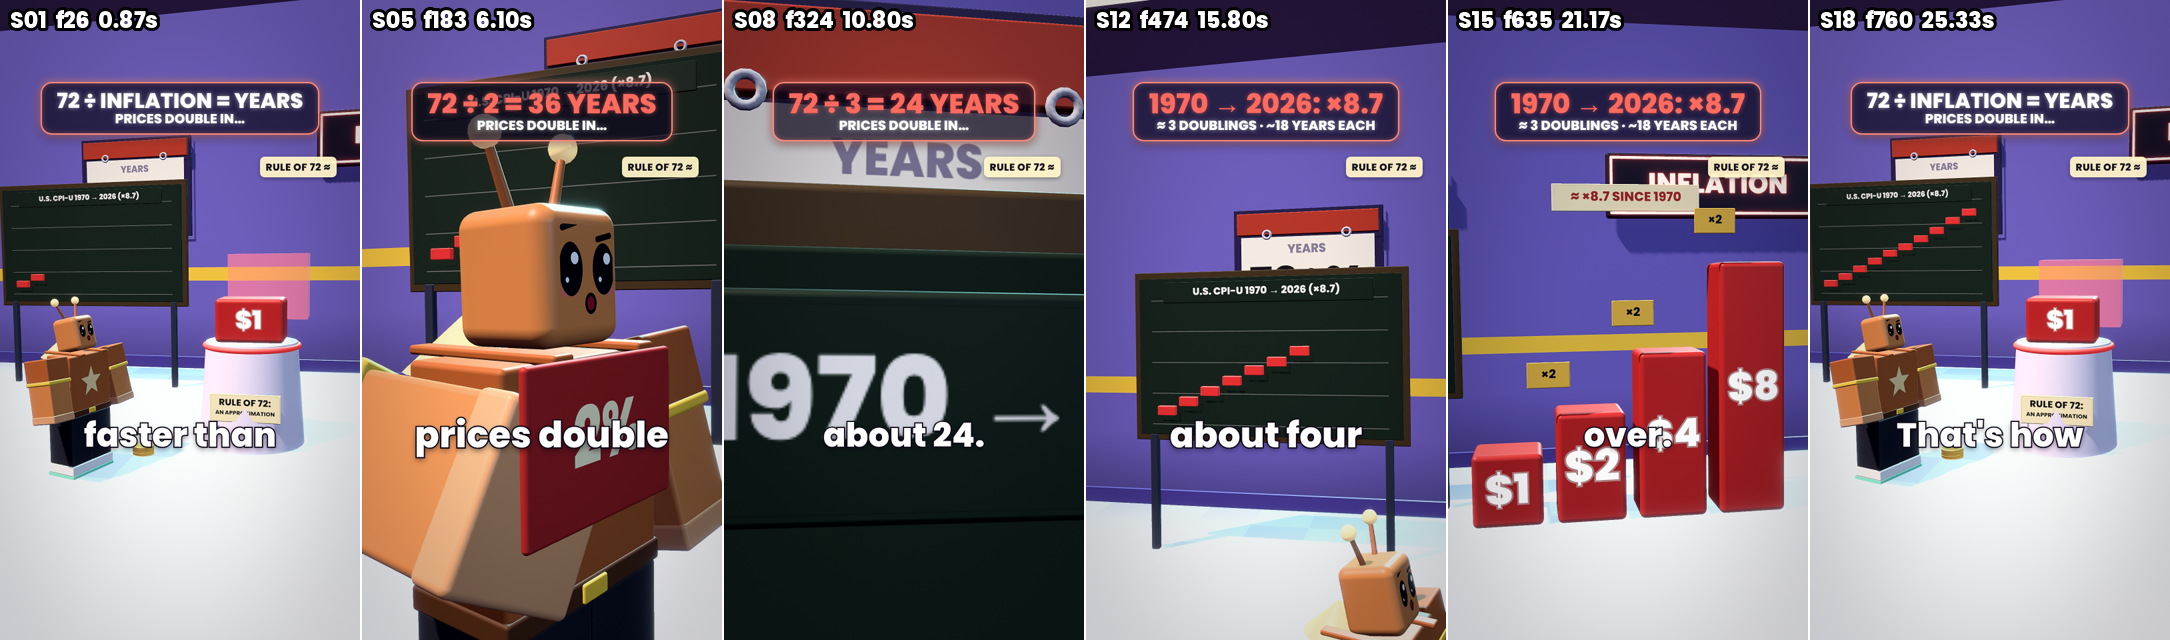
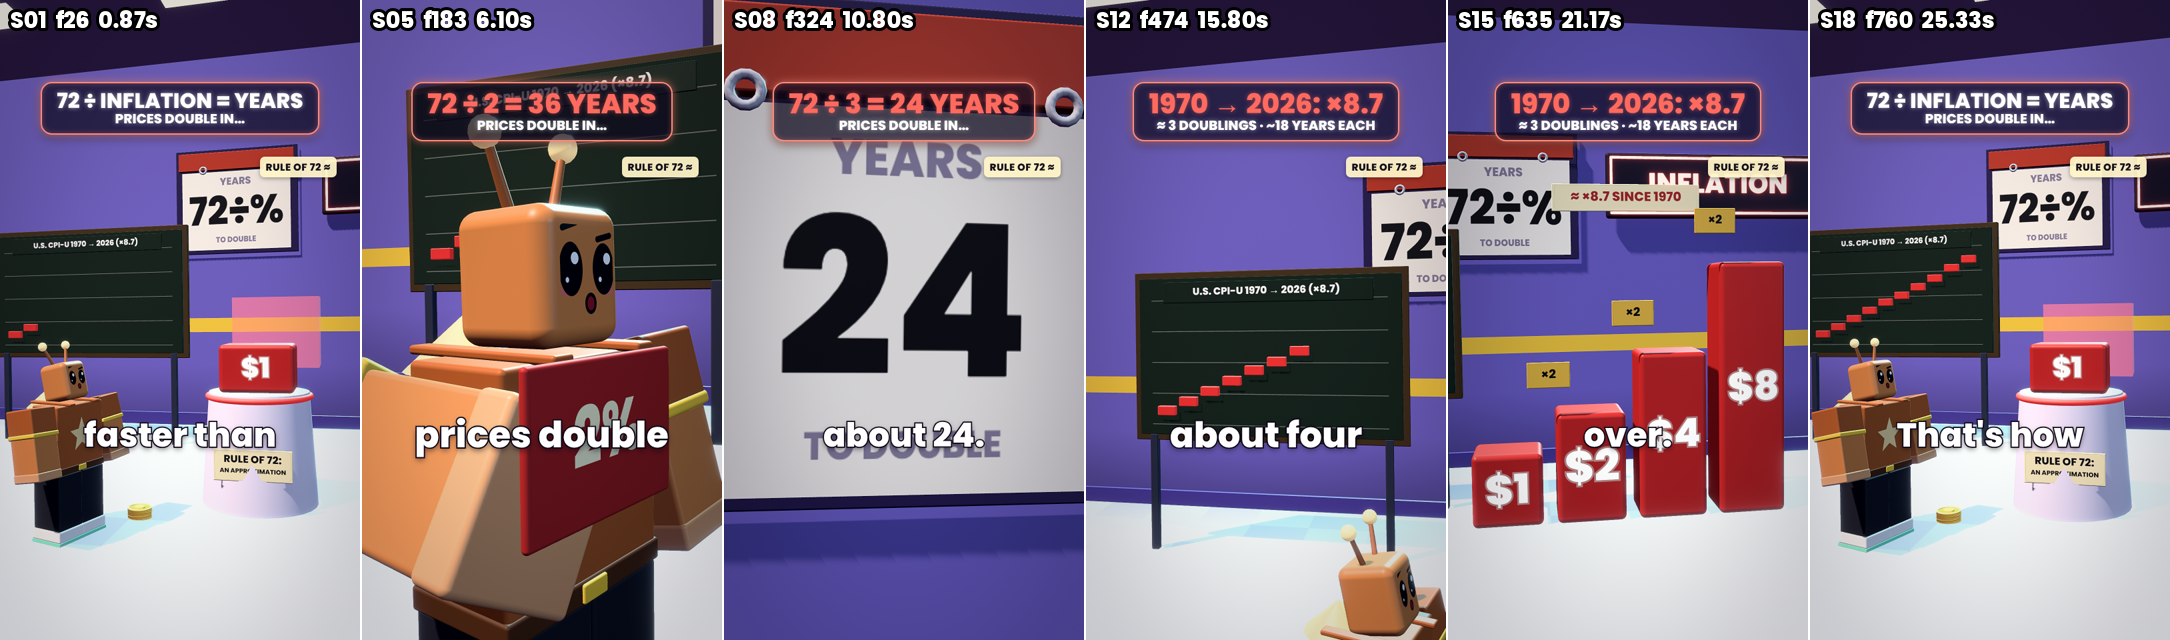
finance F2: F2_STATUS.md
Claude-Session: https://claude.ai/code/session_01D7r6b9GaQTXrUiCNiGbAsa

diff --git a/finance/F2_STATUS.md b/finance/F2_STATUS.md
@@ -1,0 +1,60 @@
+# F2 status: 5 more finance Shorts, built and ready for the PC render
+
+Branch `finance/f2` (branched from `finance/f1`, with `finance/f1` merged in at a35bdc3 for the PC engine). Each Short is
+in `finance/shorts/<slug>/`:
+- `script.md`: 5 hook candidates and the pick, loop sentence, twist, counter, and the word-anchored shot plan;
+- `sources.md`, `UPLOAD.md` (title and description only, no hashtags);
+- `voice.wav` (force-added) + `script.txt`;
+- `vo/timings.json` + `vo/whisper_check.md`;
+- `plan/plan_src.py` → `src/plan.gen.ts` + `plan/SHOTS.md`;
+- `stills_sheet.png` (cloud CPU stills of the built scene).
+
+The scenes are built in the PC project `finance/render-pc/`. Render commands are in `finance/F2_RENDER.md`.
+
+| slug | first line (hook) | words | voice (s) | last word ends (s) | frames @30 | shots | median cut (s) | Whisper word check |
+|---|---|---|---|---|---|---|---|---|
+| coffee-could-be | Your coffee could be worth 186,000 dollars. | 59 | 30.50 | 29.96 | 917 | 20 | 1.49 | PASS |
+| same-car-more | Same car, 4,700 dollars more. | 62 | 30.27 | 29.96 | 917 | 21 | 1.38 | PASS |
+| surprise-bill | A surprise bill can last two years. | 71 | 28.55 | 27.70 | 849 | 19 | 1.42 | PASS |
+| employer-match | Some jobs pay you to save. | 77 | 30.50 | 29.88 | 914 | 20 | 1.56 | PASS |
+| prices-double | Prices double faster than you think. | 64 | 25.63 | 25.14 | 772 | 18 | 1.34 | PASS |
+
+The bar for all five:
+- 20–30 s spoken (each last word ends by 30.0 s);
+- a hook of 7 words or fewer, with 5 candidates in `script.md`;
+- a twist at about 70 %;
+- a last line that runs grammatically into the first;
+- the regular D2 voice (Chatterbox, exaggeration 0.3, cfg 0.3);
+- the cast reused: SAVER, SPENDER, PENNY, TELLER, LENDER;
+- no brands, real people, stocks or crypto, and no promises.
+
+Every number is sourced, with the maths shown, in `sources.md`:
+- **coffee-could-be:** $5/day = $1,825/yr; $152.08 a month at a made-up steady 7 %: 30 yrs ≈ $186,620, 10 yrs ≈ $26,477. Investor.gov calculator.
+- **same-car-more:** $30,000 at an example 7 % APR: 36 months $926/mo and $3,347 interest; 84 months $453/mo and $8,034 interest (+$4,686). CFPB auto-loan pages.
+- **surprise-bill:** $1,000 on a 22 % card at $50/mo: 26 months, $257 interest. Fed G.19 (≈22 %), Fed SHED 2025 (63 % would cover $400 with cash or its equivalent).
+- **employer-match:** a 50 % match up to 6 % of $50,000: you $3,000, match $1,500. IRS 2026 employee limit $24,500 (Notice 2025-67, the IRS page). DOL on vesting.
+- **prices-double:** Rule of 72 (Investor.gov): 2 % → 36 yrs, 3 % → 24, 4 % → 18. CPI-U 1970 avg 38.8 → Oct 2026 337.511 = ×8.70, about 3.9 %/yr, 3.12 doublings, one every ~18 years.
+
+## Scenes (built in the cloud, verified with CPU stills)
+- **Engine:** Creator's `finance/render-pc/` (`src/fin/core.tsx`, `props.tsx`, `hud.tsx`; `penny.tsx` and `rule72.tsx` as references).
+- **F2 compositions:** `coffee.tsx` (CoffeeCouldBe), `samecar.tsx` (SameCarMore), `surprise.tsx` (SurpriseBill), `match.tsx` (EmployerMatch), `doubling.tsx` (PricesDouble). All are registered in `src/Root.tsx` with `<Id>` + `<Id>Sub`, and `tsc` reports 0 errors.
+- **`src/fin/f2kit.tsx`:**
+  - numeric lens fitting: a lens is solved so its subjects stay inside the frame, below the counter, until the end of the push-in, with 6–10 % margins;
+  - new props: car, smoke, cup, payslip sheet, coffee bar.
+- **Stills:** 2–3 rounds of 6 per Short with `tools/cloud_stills.sh` (`--gl=swangle`). Faults fixed along the way:
+  - lens inside objects (a booth, a car);
+  - characters facing away, and blocked subjects;
+  - signs over signs (the calendar behind the CPI board, the clock over the board);
+  - too-tight prop close-ups, and hook wides with an empty floor;
+  - a character in front of the sign shot.
+
+## Open issues
+- **Not rendered or listened to:** no full renders in the cloud (as asked). Motion, sync and flicker are for the PC's `render.sh` + `critic.py`. Nobody has listened to the F2 voices by ear; Whisper confirms the words only.
+- **Tight timings:** coffee-could-be, same-car-more and employer-match end at 29.9–30.0 s (last word). coffee-could-be has two shots of about 2.3–2.5 s, during the long spoken numbers ("1,825", "54,750").
+- **Chatterbox's built-in QA prints "QA FAIL"** on lines with money (it can't match "$186,000" to the spelled words). `finance/tools/verify_words.py` passes all five, and it now also handles initialisms (C.F.P.B., I.R.S.).
+- **Wording changes:**
+  - same-car-more: the CFPB line is "a longer loan means more interest", which is confirmed on the CFPB pages. "Five years or less" was dropped as unconfirmed.
+  - coffee-could-be: line 5 now starts "Say a made-up…", because Whisper heard "At" as "add".
+- **One BNPL topic was skipped:** it needs CFPB late-fee figures I couldn't verify in time.
+- **Counter style:** the F2 compositions use Creator's holo counter and corner tag. The counter values come from the same simulations as `sources.md`.
+- **F1 UPLOAD.md files** keep their old format (pinned comment and hashtags). The new "title and description only" rule is applied to F2.
